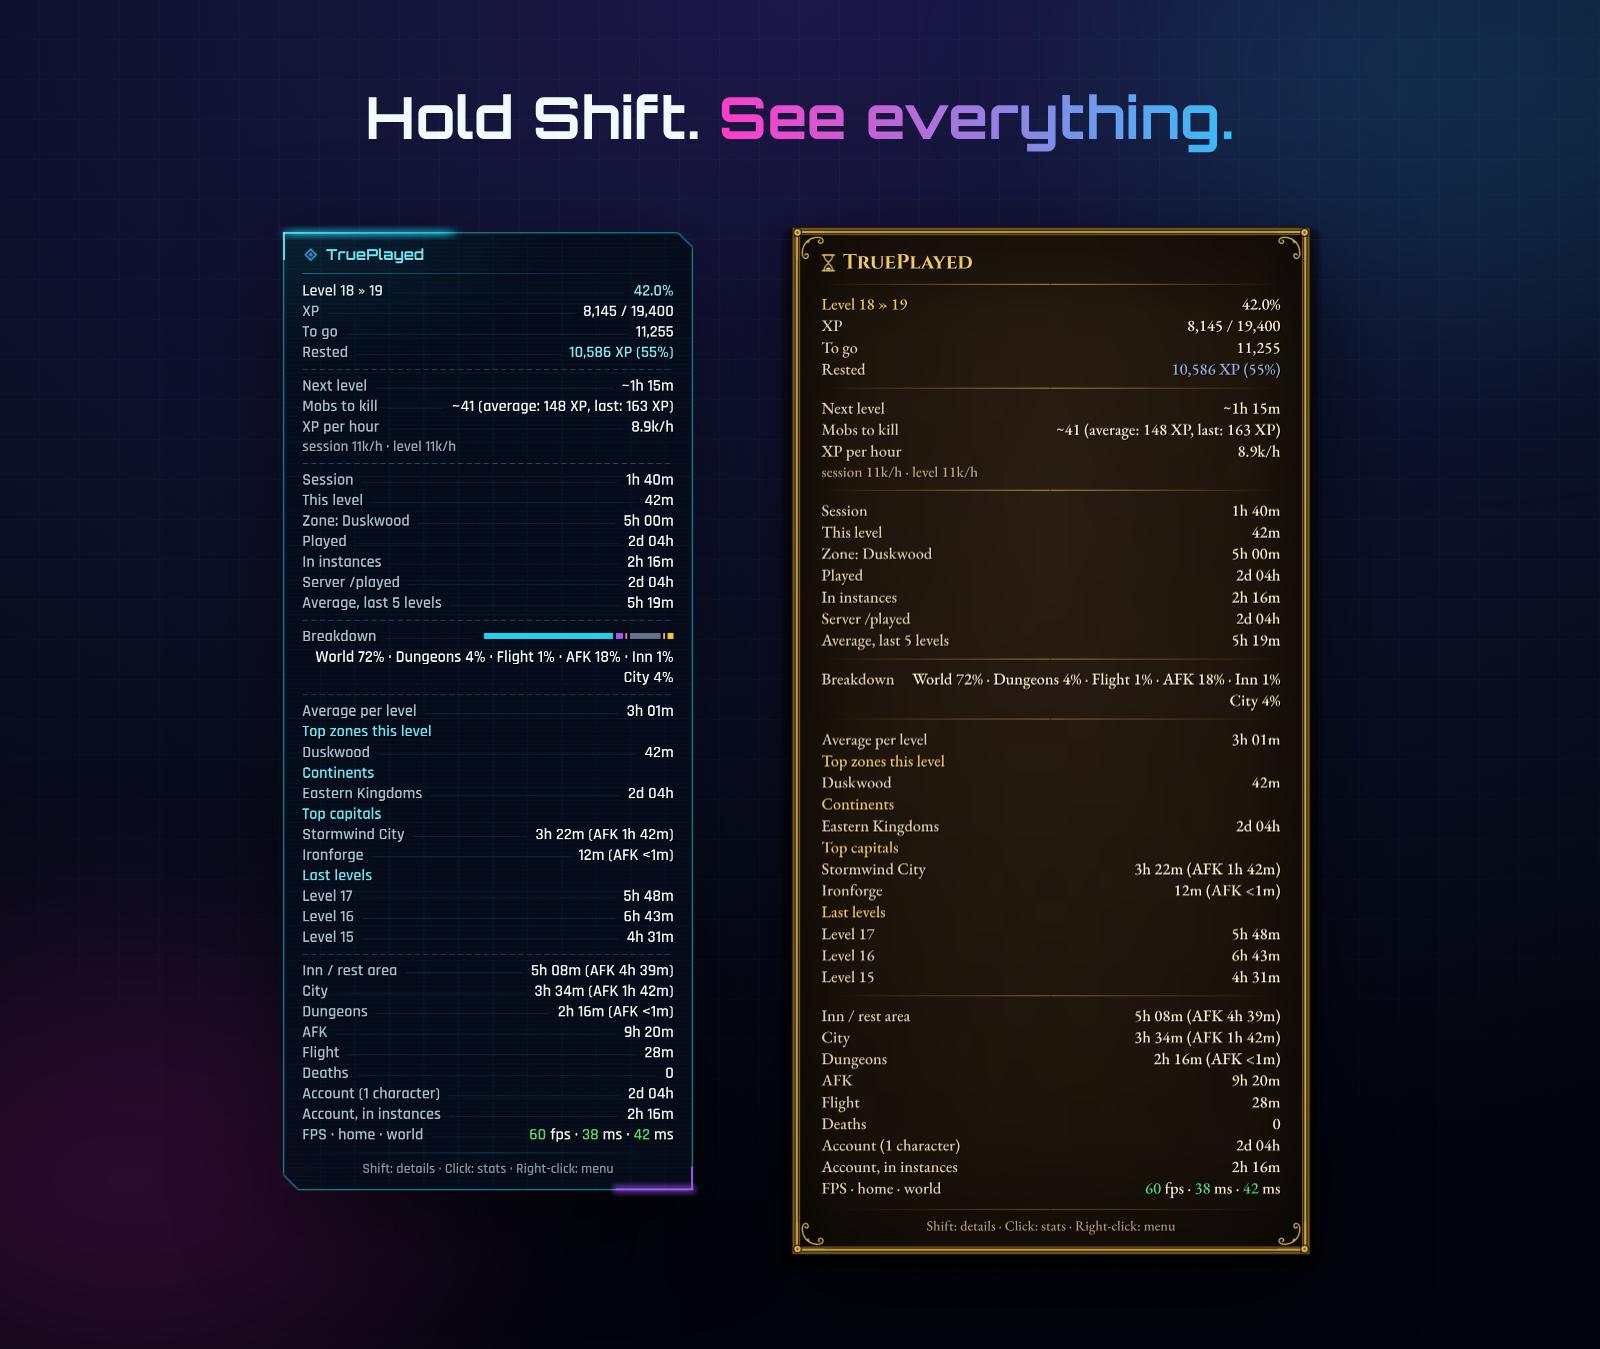
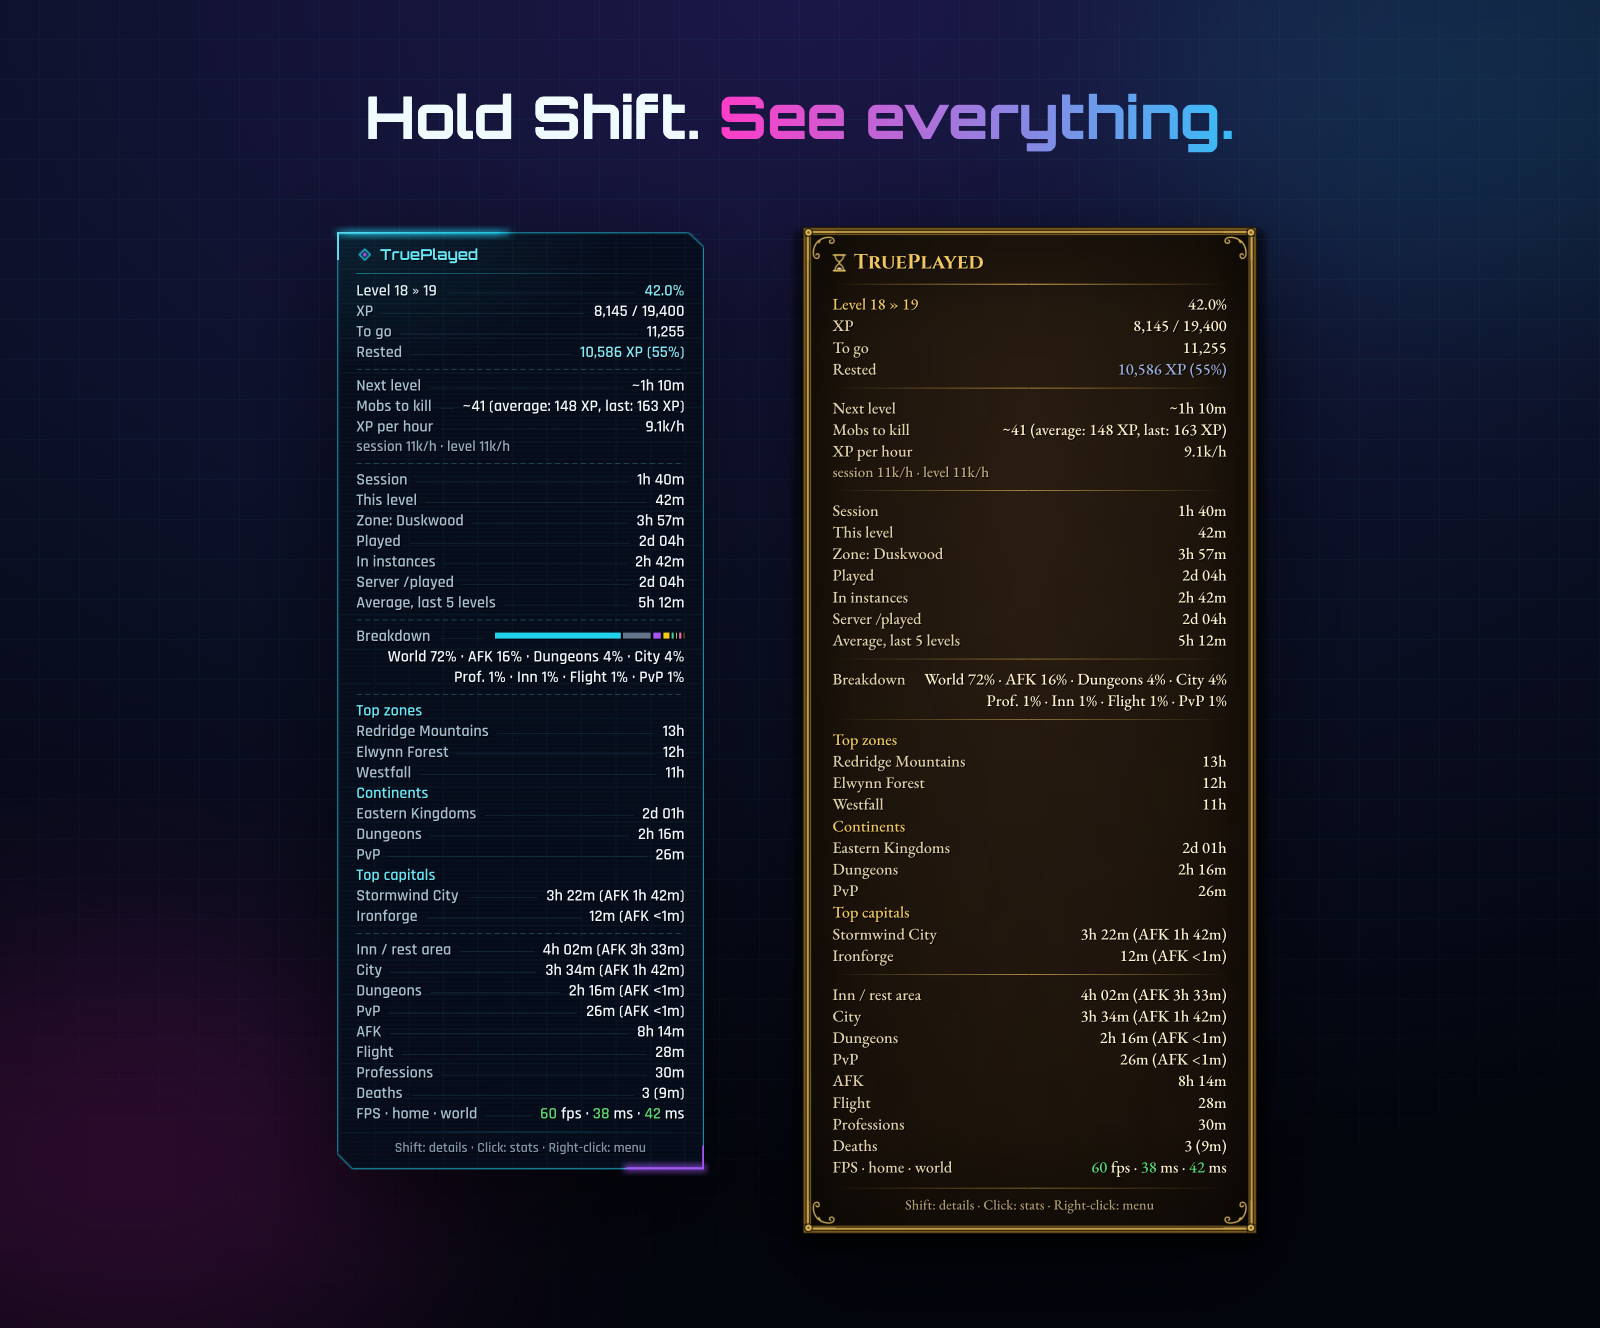
CurseForge page: new images and description for the current features
The scene now has deaths, fishing, tailoring and a Warsong Gulch match;
the statistics image excludes AFK, opens the Server column help and shows
the Dungeons and PvP continent rows. All five images are rendered again.
render-scene.js can use an installed browser (PW_CHANNEL=chrome).

Description (EN, FR, HTML): professions and time dead, the statistics
window caption, the Shift tooltip caption follows its current content.

diff --git a/media-src/curseforge/build-page.js b/media-src/curseforge/build-page.js
@@ -99,6 +99,10 @@ h1 .acc{background:linear-gradient(90deg,#ff3cc7,#38bdf8);-webkit-background-cli
 .label{position:absolute;font-family:Barlow;font-size:17px;letter-spacing:2.5px;text-transform:uppercase;color:#7f96a9;}
 .brand{position:absolute;display:flex;align-items:center;gap:14px;font-family:Orbitron;font-size:22px;color:#e6f7ff;}
 .brand svg{filter:drop-shadow(0 0 6px rgba(34,211,238,.35));}
+@font-face{font-family:Signika;src:url(${FONT('Signika-Medium.ttf')});}
+.gtip{position:absolute;transform:translate(-50%,-100%);font-family:Signika;line-height:1.25;
+  background:rgba(4,6,18,.94);border:2px solid #8f96a3;box-shadow:0 0 0 1px #2a2f3a,0 14px 30px rgba(0,0,0,.55);
+  text-shadow:1px 1px 0 #000;}
 </style></head><body>
 <div class="grid"></div>
 <div class="blob" style="width:620px;height:420px;left:-180px;top:${height - 380}px;background:rgba(255,43,214,.16);"></div>
@@ -179,24 +183,39 @@ async function detail(browser) {
   await capture(browser, page(H, ['Hold Shift.', 'See everything.'], body), H, 'detail');
 }
 
-// stats.png: the statistics window, the Levels tab (top left) and the Zones tab (bottom right,
-// in front: an opaque plate of the window colour under it, as over a dark game scene).
+// The GameTooltip of a hovered column header (scene info.tip: its lines and the header's
+// rectangle), drawn in the game's tooltip style: game art, not exported by scene.lua.
+// ANCHOR_TOP: centred above the header. `s` is the shot of the window, (ox, oy) its place.
+function headerTip(s, tip, zoom, ox, oy) {
+  if (!tip) return '';
+  const [cx, cy] = s.map(tip.rect[0] + tip.rect[2] / 2, tip.rect[1]);
+  const rgb = (c) => `rgb(${c.slice(0, 3).map((v) => Math.round(v * 255)).join(',')})`;
+  const lines = tip.lines.map((l, i) => `<div style="color:${rgb(l.color)};font-size:${(i === 0 ? 14 : 12) * zoom}px;` +
+    `margin-top:${i === 0 ? 0 : 3 * zoom}px;">${l.text.replace(/&/g, '&amp;').replace(/</g, '&lt;')}</div>`).join('');
+  return `<div class="gtip" style="left:${ox + cx}px;top:${oy + cy - 2 * zoom}px;max-width:${250 * zoom}px;` +
+    `padding:${8 * zoom}px ${10 * zoom}px;border-radius:${4 * zoom}px;">${lines}</div>`;
+}
+
+// stats.png: the statistics window, the Levels tab (top, its Server header hovered with the
+// help tooltip) and the Zones tab (bottom right, in front: an opaque plate of the window
+// colour under it, as over a dark game scene). The Levels window is as wide as its columns:
+// zoomed to fit the page.
 async function stats(browser) {
-  const zoom = 1.4;
   const [lv, zn] = await Promise.all([scene('levels', 'futuriste'), scene('zones', 'futuriste')]);
-  const sl = await shot(browser, lv, zoom, 'stats-levels'), sz = await shot(browser, zn, zoom, 'stats-zones');
-  const top = 240, dx = 470, dy = 330;
-  const x0 = Math.round((WIDTH - sl.w - dx) / 2);
-  const H = Math.round(top + dy + sz.h + 60);
+  const zoom = Math.min(1.4, (WIDTH - 90) / (lv.bounds[2] + 8)), zoomZ = 1.25;
+  const sl = await shot(browser, lv, zoom, 'stats-levels'), sz = await shot(browser, zn, zoomZ, 'stats-zones');
+  const top = 240, x0 = Math.round((WIDTH - sl.w) / 2);
+  const fx = WIDTH - 40 - sz.w, fy = top + Math.round(sl.h * 0.55);
+  const H = Math.round(fy + sz.h + 60);
   // the window's own backdrop (largest backdrop item) -> plate under the front window
   const bd = zn.items.filter((i) => i.kind === 'backdrop').sort((a, b) => b.rect[2] * b.rect[3] - a.rect[2] * a.rect[3])[0];
   const [px, py] = sz.map(bd.rect[0] + bd.insets[0], bd.rect[1] + bd.insets[2]);
-  const pw = (bd.rect[2] - bd.insets[0] - bd.insets[1]) * zoom, ph = (bd.rect[3] - bd.insets[2] - bd.insets[3]) * zoom;
+  const pw = (bd.rect[2] - bd.insets[0] - bd.insets[1]) * zoomZ, ph = (bd.rect[3] - bd.insets[2] - bd.insets[3]) * zoomZ;
   const c = bd.bg.slice(0, 3).map((v) => Math.round(v * 255)).join(',');
-  const fx = x0 + dx, fy = top + dy;
   const body = `<div style="opacity:.92">${img(sl, x0, top, 'float')}</div>` +
     `<div style="position:absolute;left:${fx + px}px;top:${fy + py}px;width:${pw}px;height:${ph}px;` +
-    `background:rgb(${c});box-shadow:0 28px 60px rgba(0,0,0,.6);"></div>` + img(sz, fx, fy);
+    `background:rgb(${c});box-shadow:0 28px 60px rgba(0,0,0,.6);"></div>` + img(sz, fx, fy) +
+    headerTip(sl, lv.info.tip, zoom, x0, top);
   await capture(browser, page(H, ['Every level.', 'Every zone.'], body), H, 'stats');
 }
 

diff --git a/docs/curseforge-en.html b/docs/curseforge-en.html
@@ -1,5 +1,5 @@
 <p style="text-align:center"><img src="https://raw.githubusercontent.com/Lutakh/TruePlayed/main/media-src/curseforge/page/hero.png" alt="TruePlayed: your real /played" width="800"></p>
-<p>Every second you play, counted and sorted: open world, dungeons, raids, PvP, AFK, inns, cities, flights. Leave the AFK out with one click. Or don't.</p>
+<p>Every second you play, counted and sorted: open world, dungeons, raids, PvP, AFK, inns, cities, flights, professions, even the time spent dead. Leave the AFK out with one click. Or don't.</p>
 <h3>Know when you'll level.</h3>
 <p>XP per hour. Time to level. Mobs to kill. Rested XP included.</p>
 <h3>Know where your time went.</h3>
@@ -7,9 +7,9 @@
 <p style="text-align:center"><img src="https://raw.githubusercontent.com/Lutakh/TruePlayed/main/media-src/curseforge/page/themes.png" alt="13 themes. One click." width="800"></p>
 <p>Futuristic, Heroic, Pixel, Classic, and one for every class. The bar, the tooltip and the statistics window change together.</p>
 <p style="text-align:center"><img src="https://raw.githubusercontent.com/Lutakh/TruePlayed/main/media-src/curseforge/page/detail.png" alt="Hold Shift. See everything." width="800"></p>
-<p>Your pace, your last levels, your top zones, your deaths, your account total.</p>
+<p>Your pace, your top zones, your time per continent, in dungeons and in PvP, your deaths and your professions.</p>
 <p style="text-align:center"><img src="https://raw.githubusercontent.com/Lutakh/TruePlayed/main/media-src/curseforge/page/stats.png" alt="Every level. Every zone." width="800"></p>
-<p>A full history in one window: <code>/tpl stats</code>.</p>
+<p>A full history in one window, <code>/tpl stats</code>: the time of each level next to the estimate made when it began, the time it took to get there, deaths, professions. Wondering what a column means? Hover its header.</p>
 <p style="text-align:center"><img src="https://raw.githubusercontent.com/Lutakh/TruePlayed/main/media-src/curseforge/page/compact.png" alt="Your bar, or no bar." width="800"></p>
 <p>Keep your own XP bar: use the minimap button, or a tiny display in a corner of the screen that shows only what you pick.</p>
 <h3>Light. Safe.</h3>

diff --git a/media-src/curseforge/render-scene.js b/media-src/curseforge/render-scene.js
@@ -405,9 +405,12 @@ async function renderScene(browser, scene, outPng, opts = {}) {
 
 // Chromium with font hinting off: subpixel glyph positioning, so text widths match the
 // font metrics the addon was laid out with (tests/fontmetrics.lua) within 1 px.
+// PW_CHANNEL=chrome uses the installed Google Chrome instead of Playwright's Chromium.
 function launch() {
   const { chromium } = require('playwright');
-  return chromium.launch({ args: ['--font-render-hinting=none'] });
+  const opts = { args: ['--font-render-hinting=none'] };
+  if (process.env.PW_CHANNEL) opts.channel = process.env.PW_CHANNEL;
+  return chromium.launch(opts);
 }
 
 module.exports = { decodeTGA, encodePNG, buildPage, renderScene, launch };

diff --git a/media-src/curseforge/page/README.md b/media-src/curseforge/page/README.md
@@ -2,8 +2,9 @@
 
 Real renders of the addon, not mockups: `scene.lua` loads the addon in the offline stub
 (`tests/wowstub.lua`, `tests/stub_ui.lua`, text widths from `tests/fontmetrics.lua`), plays
-a leveling character (Lutak, level 1 to 18 over 9 days, last session 1 h 40 in Duskwood),
-and exports every texture and font string it draws. `render-scene.js` draws that scene
+a leveling character (Lutak, level 1 to 18 over 9 days, two dungeons, a Warsong Gulch
+match, four deaths, some fishing and tailoring, last session 1 h 40 in Duskwood), and
+exports every texture and font string it draws. `render-scene.js` draws that scene
 with the addon's own `.tga` art and bundled fonts. `build-page.js` puts the renders on the
 brand background (logo-B colours, Orbitron headlines, Barlow subheads).
 
@@ -12,6 +13,9 @@ brand background (logo-B colours, Orbitron headlines, Barlow subheads).
 From the repository root (needs `lua`, Node.js and Playwright's Chromium):
 
     NODE_PATH=$(npm root -g) node media-src/curseforge/build-page.js
+
+With the installed Google Chrome instead of Playwright's Chromium (`npm i -g playwright`
+with `PLAYWRIGHT_SKIP_BROWSER_DOWNLOAD=1`): add `PW_CHANNEL=chrome` before the command.
 
 Only some images: add their names, e.g. `... build-page.js hero stats`. To keep the
 intermediate scenes and renders: add `--keep`.
@@ -31,8 +35,8 @@ the level %), `minitip` (one line, hovered). Themes: the theme ids of `Themes/*.
 |---|---|---|
 | `hero.png` | 1600 x 800 | "Your real /played." The Futuristic bar (600 wide, bottom of the screen) and its tooltip. |
 | `themes.png` | 1600 x 1330 | "13 themes. One click." The bar in each theme. |
-| `detail.png` | 1600 x 1349 | "Hold Shift. See everything." The detailed tooltip, Futuristic and Heroic fantasy. |
-| `stats.png` | 1600 x 1257 | "Every level. Every zone." The statistics window, Levels and Zones tabs (Futuristic). |
+| `detail.png` | 1600 x 1328 | "Hold Shift. See everything." The detailed tooltip, Futuristic and Heroic fantasy. |
+| `stats.png` | 1600 x 1228 | "Every level. Every zone." The statistics window (Futuristic, AFK excluded): the Levels tab with the help tooltip of its Server column, and the Zones tab (continents, dungeons, PvP). |
 | `compact.png` | 1600 x 1021 | "Your bar. Or no bar." The mini display (Futuristic, Mage, Warlock; Heroic fantasy stacked) and its tooltip. The minimap button is not drawn: its icon and border are game art. |
 
 ## Approximations
@@ -41,7 +45,8 @@ the level %), `minitip` (one line, hovered). Themes: the theme ids of `Themes/*.
   bundled Signika Medium (the width stand-in of the tests), Arial Narrow with Barlow
   Condensed; `WHITE8X8` and the tooltip background are white; the tooltip border of the
   statistics window is a thin rounded line; its close button and scroll bar (Blizzard art)
-  are not drawn.
+  are not drawn. The help tooltip of a column header (a GameTooltip) is drawn by
+  `build-page.js` in the game's tooltip style, with the text and place the scene exports.
 - `ADD` blending is exact over an opaque background; the UI is rendered on a transparent
   one, where it falls back to normal alpha blending (the difference is invisible over the
   dark backgrounds).

diff --git a/docs/curseforge-fr.md b/docs/curseforge-fr.md
@@ -25,7 +25,8 @@ inclus dans le zip de l'addon. Le guide `docs/PUBLISHING-fr.md` indique où va c
   montre du jeu), avec un petit badge « FOREVER ».
 - **Mots-clés** : WoW Forever, Forever, played, /played, XP par heure, temps avant le
   niveau, montée en niveau, AFK, auberge, repos, temps par zone, temps en instance,
-  donjons, raids, monstres à tuer, graphique FPS, thèmes, thèmes de classe.
+  donjons, raids, temps mort, temps de métiers, monstres à tuer, graphique FPS, thèmes,
+  thèmes de classe.
 - **Signalements / code source** : https://github.com/Lutakh/TruePlayed
 
 Tout ce qui suit le trait est la **description** (Markdown), traduction de la description
@@ -36,7 +37,8 @@ anglaise : mêmes images (`media-src/curseforge/page/`, visibles une fois sur `m
 ![TruePlayed : votre vrai /played](https://raw.githubusercontent.com/Lutakh/TruePlayed/main/media-src/curseforge/page/hero.png)
 
 Chaque seconde de jeu, comptée et triée : monde ouvert, donjons, raids, JcJ, AFK,
-auberges, villes, vols. Retirez l'AFK d'un clic. Ou pas.
+auberges, villes, vols, métiers, et même le temps passé mort. Retirez l'AFK d'un clic. Ou
+pas.
 
 ### Sachez quand vous monterez.
 
@@ -53,11 +55,14 @@ fenêtre de statistiques changent ensemble.
 
 ![Maintenez Maj. Voyez tout.](https://raw.githubusercontent.com/Lutakh/TruePlayed/main/media-src/curseforge/page/detail.png)
 
-Votre rythme, vos derniers niveaux, vos zones, vos morts, le total du compte.
+Votre rythme, vos zones, votre temps par continent, en donjon et en JcJ, vos morts et vos
+métiers.
 
 ![Chaque niveau. Chaque zone.](https://raw.githubusercontent.com/Lutakh/TruePlayed/main/media-src/curseforge/page/stats.png)
 
-Tout l'historique dans une fenêtre : `/tpl stats`.
+Tout l'historique dans une fenêtre, `/tpl stats` : le temps de chaque niveau à côté de
+l'estimation faite à son début, le temps mis pour y arriver, les morts, les métiers. Une
+colonne vous intrigue ? Survolez son en-tête.
 
 ![Votre barre, ou aucune.](https://raw.githubusercontent.com/Lutakh/TruePlayed/main/media-src/curseforge/page/compact.png)
 

diff --git a/docs/curseforge-en.md b/docs/curseforge-en.md
@@ -23,8 +23,8 @@ the addon zip. See `docs/PUBLISHING-fr.md` for where each text goes.
   pocket-watch icon), with a small "FOREVER" badge.
 - **Keywords** (put them naturally in the summary and description): WoW Forever, Forever,
   played, /played, XP per hour, time to level, leveling, AFK, inn, rested, zone time,
-  time per zone, instance time, dungeon time, raid time, mobs to kill, FPS graph, themes,
-  class themes.
+  time per zone, instance time, dungeon time, raid time, death time, professions time,
+  mobs to kill, FPS graph, themes, class themes.
 - **Issues / source**: https://github.com/Lutakh/TruePlayed
 
 Everything below the line is the **Description** (Markdown editor). The images are the
@@ -44,7 +44,8 @@ into the editor's source-code view (the `<>` button), replacing everything there
 ![TruePlayed: your real /played](https://raw.githubusercontent.com/Lutakh/TruePlayed/main/media-src/curseforge/page/hero.png)
 
 Every second you play, counted and sorted: open world, dungeons, raids, PvP, AFK, inns,
-cities, flights. Leave the AFK out with one click. Or don't.
+cities, flights, professions, even the time spent dead. Leave the AFK out with one click.
+Or don't.
 
 ### Know when you'll level.
 
@@ -61,11 +62,14 @@ statistics window change together.
 
 ![Hold Shift. See everything.](https://raw.githubusercontent.com/Lutakh/TruePlayed/main/media-src/curseforge/page/detail.png)
 
-Your pace, your last levels, your top zones, your deaths, your account total.
+Your pace, your top zones, your time per continent, in dungeons and in PvP, your deaths
+and your professions.
 
 ![Every level. Every zone.](https://raw.githubusercontent.com/Lutakh/TruePlayed/main/media-src/curseforge/page/stats.png)
 
-A full history in one window: `/tpl stats`.
+A full history in one window, `/tpl stats`: the time of each level next to the estimate
+made when it began, the time it took to get there, deaths, professions. Wondering what a
+column means? Hover its header.
 
 ![Your bar, or no bar.](https://raw.githubusercontent.com/Lutakh/TruePlayed/main/media-src/curseforge/page/compact.png)
 
